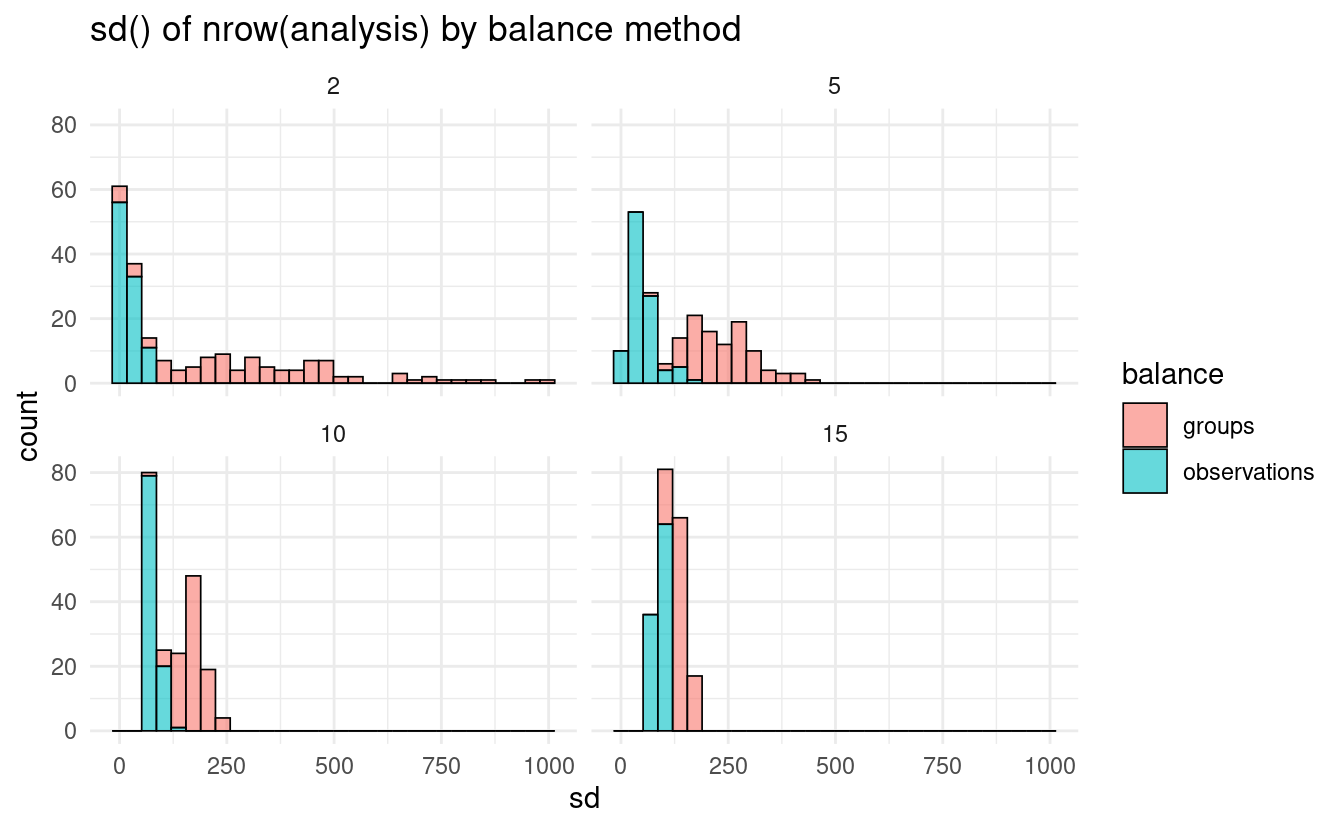
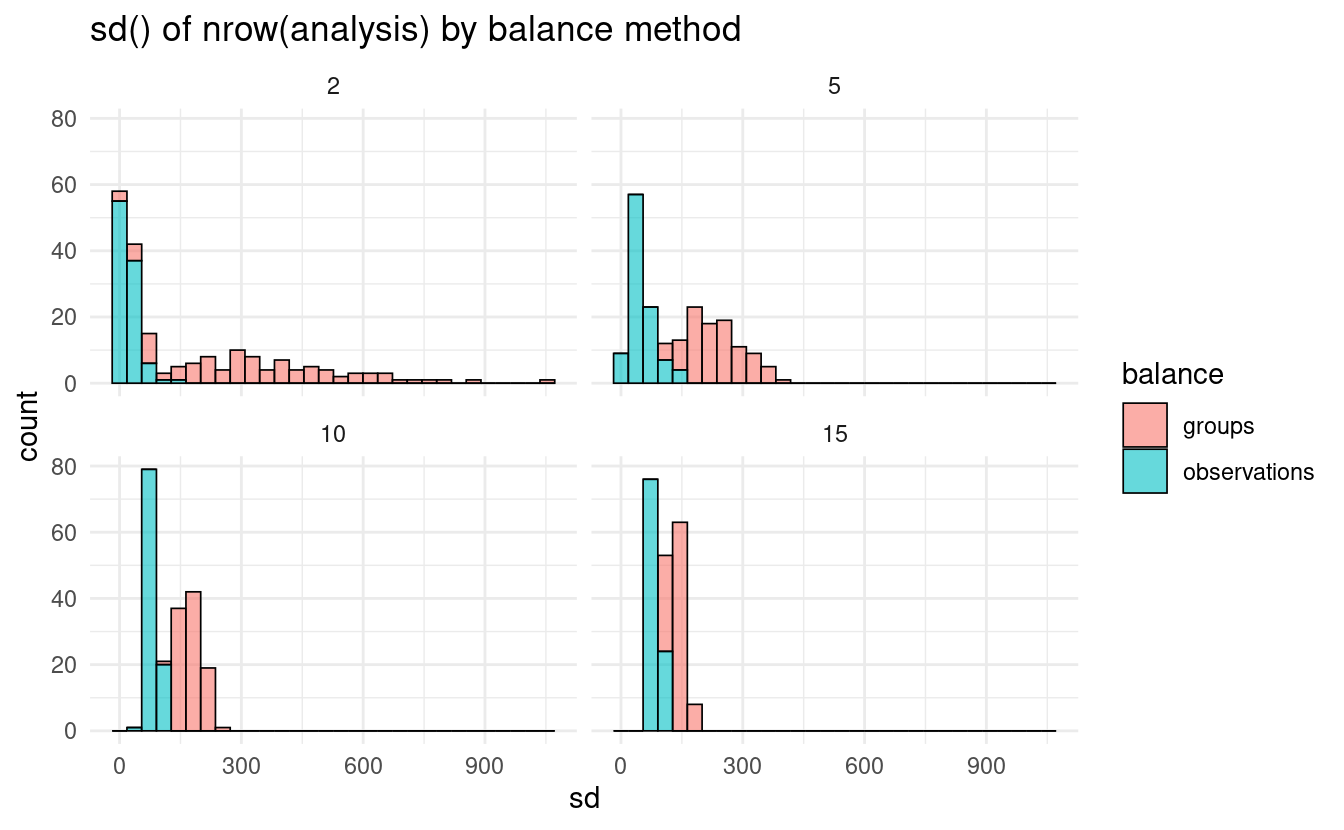
Small changes

diff --git a/content/blog/rsample-1-1-0/index.md b/content/blog/rsample-1-1-0/index.md
@@ -15,7 +15,7 @@ photo:
 # one of: "deep-dive", "learn", "package", "programming", "roundup", or "other"
 categories: [package] 
 tags: [rsample, tidymodels]
-rmd_hash: d4d56f81e1f2592d
+rmd_hash: b42ae2721dbe279d
 
 ---
 
@@ -48,7 +48,7 @@ This blog post will walk through some of the highlights from this newest release
 
 By far and away the biggest addition in this version of rsample is the set of new functions for grouped resampling. Grouped resampling is a form of resampling where observations need to be assigned to the analysis or assessment sets as a "group", not split between the two. This is a common need when some of your data is more closely related than would be expected under random chance: for instance, when taking multiple measurements of a single patient over time, or when your data is geographically clustered into distinct "locations" like different neighborhoods.
 
-rsample has supported grouped v-fold cross-validation for a few years, through the `grouped_vfold_cv()` function:
+rsample has supported grouped V-fold cross-validation for a few years, through the `grouped_vfold_cv()` function:
 
 <div class="highlight">
 
@@ -75,9 +75,9 @@ rsample 1.1.0 extends this support by adding four new functions for grouped resa
 <span class='nf'><a href='https://rsample.tidymodels.org/reference/group_bootstraps.html'>group_bootstraps</a></span><span class='o'>(</span><span class='nv'>ames</span>, <span class='nv'>Neighborhood</span>, times <span class='o'>=</span> <span class='m'>1</span><span class='o'>)</span>
 <span class='c'>#&gt; # Group bootstrap sampling </span>
 <span class='c'>#&gt; <span style='color: #555555;'># A tibble: 1 × 2</span></span>
-<span class='c'>#&gt;   splits             id        </span>
-<span class='c'>#&gt;   <span style='color: #555555; font-style: italic;'>&lt;list&gt;</span>             <span style='color: #555555; font-style: italic;'>&lt;chr&gt;</span>     </span>
-<span class='c'>#&gt; <span style='color: #555555;'>1</span> <span style='color: #555555;'>&lt;split [2831/948]&gt;</span> Bootstrap1</span>
+<span class='c'>#&gt;   splits              id        </span>
+<span class='c'>#&gt;   <span style='color: #555555; font-style: italic;'>&lt;list&gt;</span>              <span style='color: #555555; font-style: italic;'>&lt;chr&gt;</span>     </span>
+<span class='c'>#&gt; <span style='color: #555555;'>1</span> <span style='color: #555555;'>&lt;split [2891/1120]&gt;</span> Bootstrap1</span>
 
 <span class='c'># Random resampling without replacement:</span>
 <span class='nf'><a href='https://rsample.tidymodels.org/reference/group_mc_cv.html'>group_mc_cv</a></span><span class='o'>(</span><span class='nv'>ames</span>, <span class='nv'>Neighborhood</span>, times <span class='o'>=</span> <span class='m'>1</span><span class='o'>)</span>
@@ -85,7 +85,7 @@ rsample 1.1.0 extends this support by adding four new functions for grouped resa
 <span class='c'>#&gt; <span style='color: #555555;'># A tibble: 1 × 2</span></span>
 <span class='c'>#&gt;   splits             id       </span>
 <span class='c'>#&gt;   <span style='color: #555555; font-style: italic;'>&lt;list&gt;</span>             <span style='color: #555555; font-style: italic;'>&lt;chr&gt;</span>    </span>
-<span class='c'>#&gt; <span style='color: #555555;'>1</span> <span style='color: #555555;'>&lt;split [2116/814]&gt;</span> Resample1</span>
+<span class='c'>#&gt; <span style='color: #555555;'>1</span> <span style='color: #555555;'>&lt;split [2163/767]&gt;</span> Resample1</span>
 
 <span class='c'># Data splitting to create a validation set:</span>
 <span class='nf'><a href='https://rsample.tidymodels.org/reference/validation_split.html'>group_validation_split</a></span><span class='o'>(</span><span class='nv'>ames</span>, <span class='nv'>Neighborhood</span><span class='o'>)</span>
@@ -93,16 +93,16 @@ rsample 1.1.0 extends this support by adding four new functions for grouped resa
 <span class='c'>#&gt; <span style='color: #555555;'># A tibble: 1 × 2</span></span>
 <span class='c'>#&gt;   splits             id        </span>
 <span class='c'>#&gt;   <span style='color: #555555; font-style: italic;'>&lt;list&gt;</span>             <span style='color: #555555; font-style: italic;'>&lt;chr&gt;</span>     </span>
-<span class='c'>#&gt; <span style='color: #555555;'>1</span> <span style='color: #555555;'>&lt;split [2173/757]&gt;</span> validation</span>
+<span class='c'>#&gt; <span style='color: #555555;'>1</span> <span style='color: #555555;'>&lt;split [2227/703]&gt;</span> validation</span>
 
 <span class='c'># Data splitting to create an initial training/testing split:</span>
 <span class='nf'><a href='https://rsample.tidymodels.org/reference/initial_split.html'>group_initial_split</a></span><span class='o'>(</span><span class='nv'>ames</span>, <span class='nv'>Neighborhood</span><span class='o'>)</span>
 <span class='c'>#&gt; &lt;Training/Testing/Total&gt;</span>
-<span class='c'>#&gt; &lt;2205/725/2930&gt;</span></code></pre>
+<span class='c'>#&gt; &lt;2232/698/2930&gt;</span></code></pre>
 
 </div>
 
-These functions all target assigning a certain proportion of your data to the assessment fold. Hitting that target can be tricky when your groups aren't all the same size, however. To work around this, these new functions create a list of all the groups in your data, randomly reshuffle it, and then select the first $n$ groups in the list that results in splitting the data as close to that proportion as possible. The net effect of this on users is that your analysis and assessment folds won't always be precisely the size you're targeting (particularly if you have a few large groups), but all data in a single group will always be entirely assigned to the same set and the splits will be entirely randomly created.
+These functions all target assigning a certain proportion of your data to the assessment fold. Hitting that target can be tricky when your groups aren't all the same size, however. To work around this, these new functions create a list of all the groups in your data, randomly reshuffle it, and then select the first *n* groups in the list that results in splitting the data as close to that proportion as possible. The net effect of this on users is that your analysis and assessment folds won't always be precisely the size you're targeting (particularly if you have a few large groups), but all data in a single group will always be entirely assigned to the same set and the splits will be entirely randomly created.
 
 The other big change to grouped resampling comes as a new argument to [`group_vfold_cv()`](https://rsample.tidymodels.org/reference/group_vfold_cv.html). By default, [`group_vfold_cv()`](https://rsample.tidymodels.org/reference/group_vfold_cv.html) assigns roughly the same number of groups to each of your folds, so you wind up with the same number of patients, or neighborhoods, or whatever else you're grouping by in each assessment set. The new `balance` argument lets you instead assign roughly the same number of rows to each fold instead, if you set `balance = observations`:
 
@@ -113,16 +113,16 @@ The other big change to grouped resampling comes as a new argument to [`group_vf
 <span class='c'>#&gt; <span style='color: #555555;'># A tibble: 28 × 2</span></span>
 <span class='c'>#&gt;    splits             id        </span>
 <span class='c'>#&gt;    <span style='color: #555555; font-style: italic;'>&lt;list&gt;</span>             <span style='color: #555555; font-style: italic;'>&lt;chr&gt;</span>     </span>
-<span class='c'>#&gt; <span style='color: #555555;'> 1</span> <span style='color: #555555;'>&lt;split [2691/239]&gt;</span> Resample01</span>
+<span class='c'>#&gt; <span style='color: #555555;'> 1</span> <span style='color: #555555;'>&lt;split [2779/151]&gt;</span> Resample01</span>
 <span class='c'>#&gt; <span style='color: #555555;'> 2</span> <span style='color: #555555;'>&lt;split [2906/24]&gt;</span>  Resample02</span>
-<span class='c'>#&gt; <span style='color: #555555;'> 3</span> <span style='color: #555555;'>&lt;split [2837/93]&gt;</span>  Resample03</span>
-<span class='c'>#&gt; <span style='color: #555555;'> 4</span> <span style='color: #555555;'>&lt;split [2907/23]&gt;</span>  Resample04</span>
-<span class='c'>#&gt; <span style='color: #555555;'> 5</span> <span style='color: #555555;'>&lt;split [2779/151]&gt;</span> Resample05</span>
-<span class='c'>#&gt; <span style='color: #555555;'> 6</span> <span style='color: #555555;'>&lt;split [2487/443]&gt;</span> Resample06</span>
-<span class='c'>#&gt; <span style='color: #555555;'> 7</span> <span style='color: #555555;'>&lt;split [2827/103]&gt;</span> Resample07</span>
-<span class='c'>#&gt; <span style='color: #555555;'> 8</span> <span style='color: #555555;'>&lt;split [2882/48]&gt;</span>  Resample08</span>
-<span class='c'>#&gt; <span style='color: #555555;'> 9</span> <span style='color: #555555;'>&lt;split [2893/37]&gt;</span>  Resample09</span>
-<span class='c'>#&gt; <span style='color: #555555;'>10</span> <span style='color: #555555;'>&lt;split [2736/194]&gt;</span> Resample10</span>
+<span class='c'>#&gt; <span style='color: #555555;'> 3</span> <span style='color: #555555;'>&lt;split [2907/23]&gt;</span>  Resample03</span>
+<span class='c'>#&gt; <span style='color: #555555;'> 4</span> <span style='color: #555555;'>&lt;split [2900/30]&gt;</span>  Resample04</span>
+<span class='c'>#&gt; <span style='color: #555555;'> 5</span> <span style='color: #555555;'>&lt;split [2879/51]&gt;</span>  Resample05</span>
+<span class='c'>#&gt; <span style='color: #555555;'> 6</span> <span style='color: #555555;'>&lt;split [2837/93]&gt;</span>  Resample06</span>
+<span class='c'>#&gt; <span style='color: #555555;'> 7</span> <span style='color: #555555;'>&lt;split [2922/8]&gt;</span>   Resample07</span>
+<span class='c'>#&gt; <span style='color: #555555;'> 8</span> <span style='color: #555555;'>&lt;split [2929/1]&gt;</span>   Resample08</span>
+<span class='c'>#&gt; <span style='color: #555555;'> 9</span> <span style='color: #555555;'>&lt;split [2805/125]&gt;</span> Resample09</span>
+<span class='c'>#&gt; <span style='color: #555555;'>10</span> <span style='color: #555555;'>&lt;split [2928/2]&gt;</span>   Resample10</span>
 <span class='c'>#&gt; <span style='color: #555555;'># … with 18 more rows</span></span></code></pre>
 
 </div>
@@ -133,14 +133,6 @@ This approach works in a similar way to the new grouped resampling functions, at
 
 <pre class='chroma'><code class='language-r' data-lang='r'><span class='kr'><a href='https://rdrr.io/r/base/library.html'>library</a></span><span class='o'>(</span><span class='nv'><a href='https://ggplot2.tidyverse.org'>ggplot2</a></span><span class='o'>)</span>
 <span class='kr'><a href='https://rdrr.io/r/base/library.html'>library</a></span><span class='o'>(</span><span class='nv'><a href='https://dplyr.tidyverse.org'>dplyr</a></span><span class='o'>)</span>
-<span class='c'>#&gt; </span>
-<span class='c'>#&gt; Attaching package: 'dplyr'</span>
-<span class='c'>#&gt; The following objects are masked from 'package:stats':</span>
-<span class='c'>#&gt; </span>
-<span class='c'>#&gt;     filter, lag</span>
-<span class='c'>#&gt; The following objects are masked from 'package:base':</span>
-<span class='c'>#&gt; </span>
-<span class='c'>#&gt;     intersect, setdiff, setequal, union</span>
 
 <span class='nv'>analysis_sd</span> <span class='o'>&lt;-</span> <span class='kr'>function</span><span class='o'>(</span><span class='nv'>v</span>, <span class='nv'>balance</span><span class='o'>)</span> <span class='o'>&#123;</span>
   <span class='nf'><a href='https://rsample.tidymodels.org/reference/group_vfold_cv.html'>group_vfold_cv</a></span><span class='o'>(</span>
@@ -169,17 +161,16 @@ This approach works in a similar way to the new grouped resampling functions, at
   <span class='nf'><a href='https://ggplot2.tidyverse.org/reference/facet_wrap.html'>facet_wrap</a></span><span class='o'>(</span><span class='o'>~</span> <span class='nv'>v</span><span class='o'>)</span> <span class='o'>+</span> 
   <span class='nf'><a href='https://ggplot2.tidyverse.org/reference/ggtheme.html'>theme_minimal</a></span><span class='o'>(</span><span class='o'>)</span> <span class='o'>+</span> 
   <span class='nf'><a href='https://ggplot2.tidyverse.org/reference/labs.html'>labs</a></span><span class='o'>(</span>title <span class='o'>=</span> <span class='s'>"sd() of nrow(analysis) by balance method"</span><span class='o'>)</span>
-<span class='c'>#&gt; `stat_bin()` using `bins = 30`. Pick better value with `binwidth`.</span>
 </code></pre>
 <img src="figs/unnamed-chunk-4-1.png" width="700px" style="display: block; margin: auto;" />
 
 </div>
 
-Right now, these grouping functions don't support stratification. If you have thoughts on how you'd expect stratification to work with grouping, or know of examples of other implementations, [let us know on GitHub](https://github.com/tidymodels/rsample/issues/317)!
+Right now, these grouping functions don't support stratification. If you have thoughts on how you'd expect stratification to work with grouping, or have an example of how another implementation has handled it, [let us know on GitHub](https://github.com/tidymodels/rsample/issues/317)!
 
 ## Other Improvements
 
-In addition, this release adds a few new utility functions to make it easier to work with the rsets produced by rsample functions.
+This release also adds a few new utility functions to make it easier to work with the rsets produced by rsample functions.
 
 For instance, the new [`reshuffle_rset()`](https://rsample.tidymodels.org/reference/reshuffle_rset.html) will re-generate an rset, using the same arguments as were used to originally create it, but under the current random seed:
 
@@ -194,11 +185,11 @@ For instance, the new [`reshuffle_rset()`](https://rsample.tidymodels.org/refere
 <span class='c'>#&gt;   MS_SubClass             MS_Zoning Lot_Frontage Lot_Area Street Alley Lot_Shape</span>
 <span class='c'>#&gt;   <span style='color: #555555; font-style: italic;'>&lt;fct&gt;</span>                   <span style='color: #555555; font-style: italic;'>&lt;fct&gt;</span>            <span style='color: #555555; font-style: italic;'>&lt;dbl&gt;</span>    <span style='color: #555555; font-style: italic;'>&lt;int&gt;</span> <span style='color: #555555; font-style: italic;'>&lt;fct&gt;</span>  <span style='color: #555555; font-style: italic;'>&lt;fct&gt;</span> <span style='color: #555555; font-style: italic;'>&lt;fct&gt;</span>    </span>
 <span class='c'>#&gt; <span style='color: #555555;'>1</span> One_Story_1946_and_New… Resident…           80    <span style='text-decoration: underline;'>11</span>622 Pave   No_A… Regular  </span>
-<span class='c'>#&gt; <span style='color: #555555;'>2</span> One_Story_1946_and_New… Resident…           93    <span style='text-decoration: underline;'>11</span>160 Pave   No_A… Regular  </span>
-<span class='c'>#&gt; <span style='color: #555555;'>3</span> Two_Story_1946_and_New… Resident…           74    <span style='text-decoration: underline;'>13</span>830 Pave   No_A… Slightly…</span>
-<span class='c'>#&gt; <span style='color: #555555;'>4</span> Two_Story_1946_and_New… Resident…           78     <span style='text-decoration: underline;'>9</span>978 Pave   No_A… Slightly…</span>
-<span class='c'>#&gt; <span style='color: #555555;'>5</span> One_Story_PUD_1946_and… Resident…           41     <span style='text-decoration: underline;'>4</span>920 Pave   No_A… Regular  </span>
-<span class='c'>#&gt; <span style='color: #555555;'>6</span> One_Story_PUD_1946_and… Resident…           43     <span style='text-decoration: underline;'>5</span>005 Pave   No_A… Slightly…</span>
+<span class='c'>#&gt; <span style='color: #555555;'>2</span> One_Story_1946_and_New… Resident…           81    <span style='text-decoration: underline;'>14</span>267 Pave   No_A… Slightly…</span>
+<span class='c'>#&gt; <span style='color: #555555;'>3</span> One_Story_1946_and_New… Resident…           93    <span style='text-decoration: underline;'>11</span>160 Pave   No_A… Regular  </span>
+<span class='c'>#&gt; <span style='color: #555555;'>4</span> Two_Story_1946_and_New… Resident…           74    <span style='text-decoration: underline;'>13</span>830 Pave   No_A… Slightly…</span>
+<span class='c'>#&gt; <span style='color: #555555;'>5</span> Two_Story_1946_and_New… Resident…           78     <span style='text-decoration: underline;'>9</span>978 Pave   No_A… Slightly…</span>
+<span class='c'>#&gt; <span style='color: #555555;'>6</span> One_Story_PUD_1946_and… Resident…           41     <span style='text-decoration: underline;'>4</span>920 Pave   No_A… Regular  </span>
 <span class='c'>#&gt; <span style='color: #555555;'># … with 67 more variables: Land_Contour &lt;fct&gt;, Utilities &lt;fct&gt;,</span></span>
 <span class='c'>#&gt; <span style='color: #555555;'>#   Lot_Config &lt;fct&gt;, Land_Slope &lt;fct&gt;, Neighborhood &lt;fct&gt;, Condition_1 &lt;fct&gt;,</span></span>
 <span class='c'>#&gt; <span style='color: #555555;'>#   Condition_2 &lt;fct&gt;, Bldg_Type &lt;fct&gt;, House_Style &lt;fct&gt;, Overall_Cond &lt;fct&gt;,</span></span>
@@ -217,10 +208,10 @@ For instance, the new [`reshuffle_rset()`](https://rsample.tidymodels.org/refere
 <span class='c'>#&gt;   <span style='color: #555555; font-style: italic;'>&lt;fct&gt;</span>                   <span style='color: #555555; font-style: italic;'>&lt;fct&gt;</span>            <span style='color: #555555; font-style: italic;'>&lt;dbl&gt;</span>    <span style='color: #555555; font-style: italic;'>&lt;int&gt;</span> <span style='color: #555555; font-style: italic;'>&lt;fct&gt;</span>  <span style='color: #555555; font-style: italic;'>&lt;fct&gt;</span> <span style='color: #555555; font-style: italic;'>&lt;fct&gt;</span>    </span>
 <span class='c'>#&gt; <span style='color: #555555;'>1</span> One_Story_1946_and_New… Resident…          141    <span style='text-decoration: underline;'>31</span>770 Pave   No_A… Slightly…</span>
 <span class='c'>#&gt; <span style='color: #555555;'>2</span> One_Story_1946_and_New… Resident…           80    <span style='text-decoration: underline;'>11</span>622 Pave   No_A… Regular  </span>
-<span class='c'>#&gt; <span style='color: #555555;'>3</span> One_Story_1946_and_New… Resident…           93    <span style='text-decoration: underline;'>11</span>160 Pave   No_A… Regular  </span>
-<span class='c'>#&gt; <span style='color: #555555;'>4</span> Two_Story_1946_and_New… Resident…           74    <span style='text-decoration: underline;'>13</span>830 Pave   No_A… Slightly…</span>
-<span class='c'>#&gt; <span style='color: #555555;'>5</span> Two_Story_1946_and_New… Resident…           78     <span style='text-decoration: underline;'>9</span>978 Pave   No_A… Slightly…</span>
-<span class='c'>#&gt; <span style='color: #555555;'>6</span> One_Story_PUD_1946_and… Resident…           41     <span style='text-decoration: underline;'>4</span>920 Pave   No_A… Regular  </span>
+<span class='c'>#&gt; <span style='color: #555555;'>3</span> One_Story_1946_and_New… Resident…           81    <span style='text-decoration: underline;'>14</span>267 Pave   No_A… Slightly…</span>
+<span class='c'>#&gt; <span style='color: #555555;'>4</span> One_Story_1946_and_New… Resident…           93    <span style='text-decoration: underline;'>11</span>160 Pave   No_A… Regular  </span>
+<span class='c'>#&gt; <span style='color: #555555;'>5</span> Two_Story_1946_and_New… Resident…           74    <span style='text-decoration: underline;'>13</span>830 Pave   No_A… Slightly…</span>
+<span class='c'>#&gt; <span style='color: #555555;'>6</span> Two_Story_1946_and_New… Resident…           78     <span style='text-decoration: underline;'>9</span>978 Pave   No_A… Slightly…</span>
 <span class='c'>#&gt; <span style='color: #555555;'># … with 67 more variables: Land_Contour &lt;fct&gt;, Utilities &lt;fct&gt;,</span></span>
 <span class='c'>#&gt; <span style='color: #555555;'>#   Lot_Config &lt;fct&gt;, Land_Slope &lt;fct&gt;, Neighborhood &lt;fct&gt;, Condition_1 &lt;fct&gt;,</span></span>
 <span class='c'>#&gt; <span style='color: #555555;'>#   Condition_2 &lt;fct&gt;, Bldg_Type &lt;fct&gt;, House_Style &lt;fct&gt;, Overall_Cond &lt;fct&gt;,</span></span>
